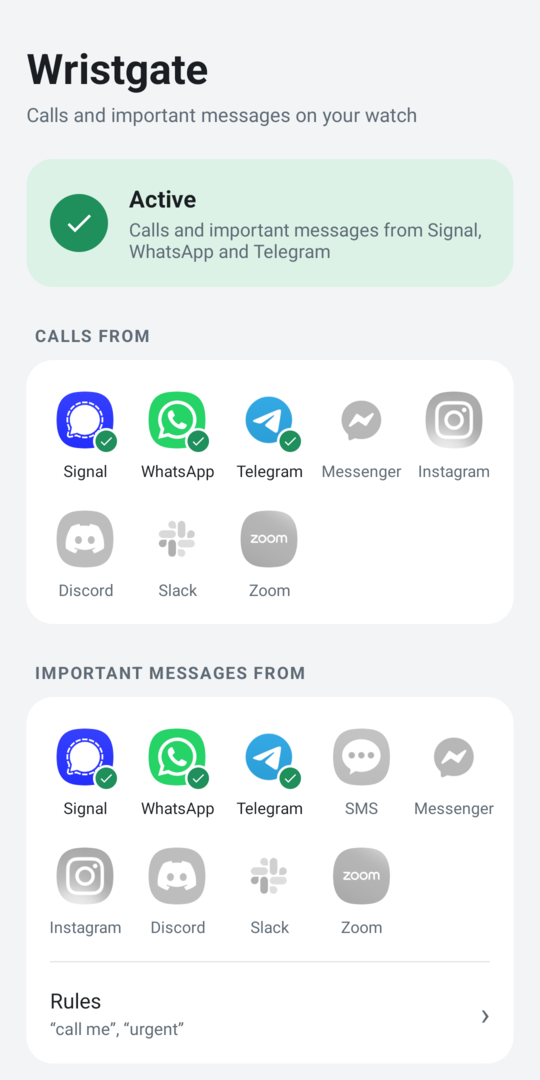
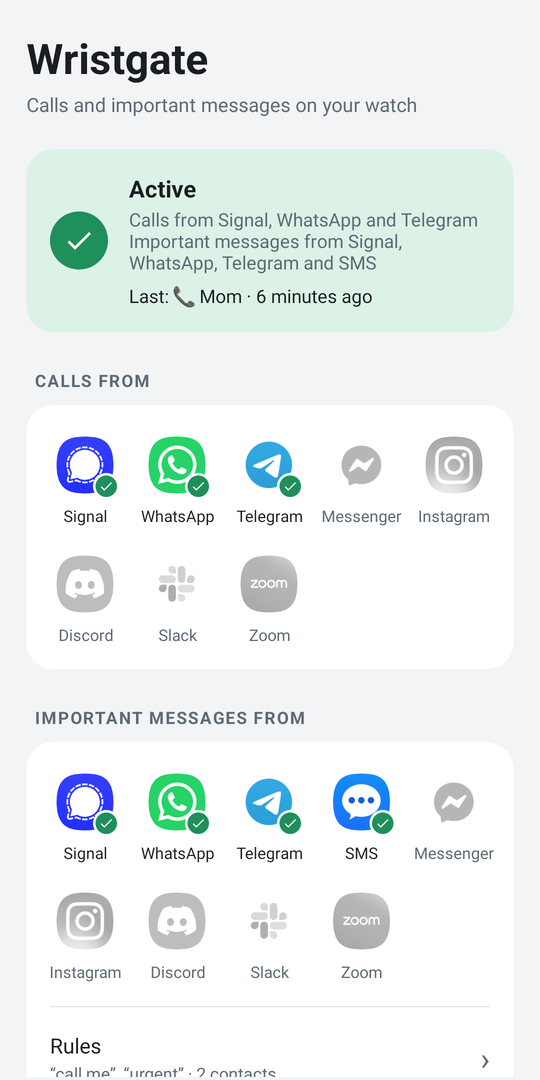
Wristgate 0.1.1: new screenshots and README for the new screens
Screenshots taken from a debug build with made-up data (English, light
theme): home, rules, history and the test screen. README explains the new
call buzzing and the watch test.

diff --git a/README.md b/README.md
@@ -32,7 +32,7 @@ Messaging-app calls (WhatsApp, Signal, Telegram…) are internet calls, not phon
 
 Everything else stays on your phone.
 
-A forwarded notification normally buzzes your watch only once. For calls, Wristgate re-posts its notification every 3 seconds while the phone rings (up to a minute), so your wrist keeps buzzing like it does for a real call. It stops as soon as you answer or decline.
+A forwarded notification normally buzzes your watch only once. For calls, Wristgate sends a fresh notification every 3 seconds while the phone rings (up to a minute): *📞 Mom · WhatsApp · ringing for 6 s*. Your wrist keeps buzzing like it does for a real call, and the copies disappear from the watch as soon as you answer or decline.
 
 ## How it works
 
@@ -50,11 +50,13 @@ The key idea: **in your watch's companion app, Wristgate is the only one of thes
 ## Screenshots
 
 <p align="center">
-  <img src="docs/screenshots/main.png" width="260" alt="Main screen: choose which apps forward calls and important messages">
+  <img src="docs/screenshots/main.png" width="200" alt="Home: status, last forwarded, and which apps forward calls and important messages">
   &nbsp;
-  <img src="docs/screenshots/rules.png" width="260" alt="Rules: keywords and contacts">
+  <img src="docs/screenshots/rules.png" width="200" alt="Rules: keywords and contacts">
   &nbsp;
-  <img src="docs/screenshots/main-bottom.png" width="260" alt="Test notification, history and watch setup">
+  <img src="docs/screenshots/history.png" width="200" alt="History: forwarded calls and messages, grouped by day">
+  &nbsp;
+  <img src="docs/screenshots/test.png" width="200" alt="Test on your watch: a notification or a simulated incoming call">
 </p>
 
 ## Setup
@@ -83,7 +85,7 @@ The key idea: **in your watch's companion app, Wristgate is the only one of thes
 5. **In your watch's companion app** (Garmin Connect, Zepp, Galaxy Wearable, Fitbit, Huawei Health…), open the per-app notification settings:
    - ✅ **allow Wristgate**;
    - 🚫 **turn off the apps you selected in Wristgate**, or you'll get everything twice. Leave the other apps as they are.
-6. Tap **Send test notification**. If it shows up on your watch, you're done.
+6. Open **Test on your watch**. Tap **Send test notification**: it should show up on your watch within seconds. Then tap **Simulate incoming call**: your watch should buzz every 3 seconds for 20 seconds. If both work, you're done.
 
 ## Rules for important messages
 
@@ -119,7 +121,7 @@ Any watch or band whose phone companion app lets you choose **which phone apps**
 ## Privacy
 
 - **No internet permission.** Wristgate cannot send anything anywhere; check [`AndroidManifest.xml`](app/src/main/AndroidManifest.xml).
-- **Message text is never stored.** The on-screen history keeps only the sender, the app, the time and why it was forwarded (last 30 items).
+- **Message text is never stored.** The on-screen history keeps only the sender, the app, the time and why it was forwarded (last 100 items).
 - **No contacts permission.** *Pick from contacts* uses Android's system picker, which shares only the contact you choose.
 - No ads, no analytics, no third-party libraries.
 
